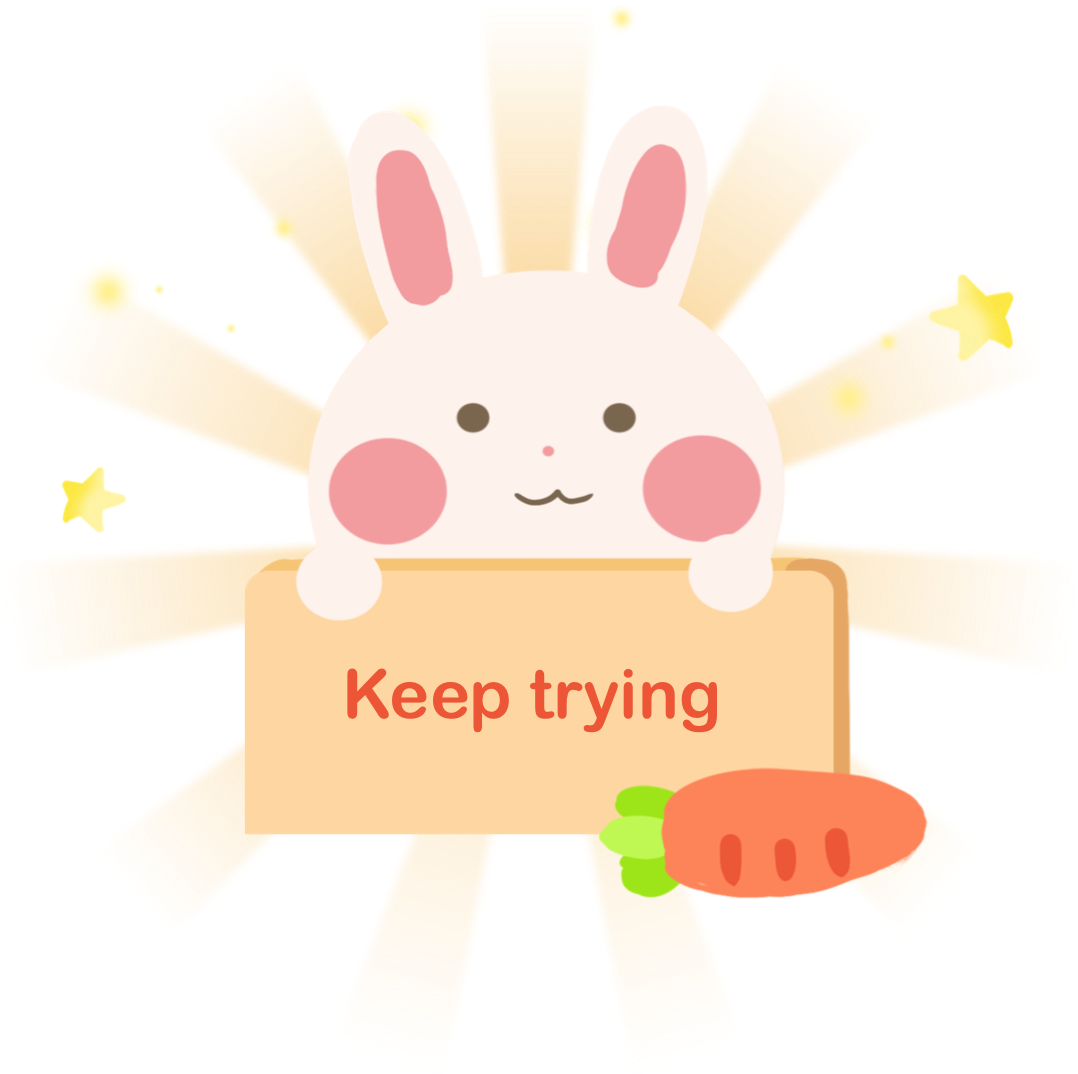
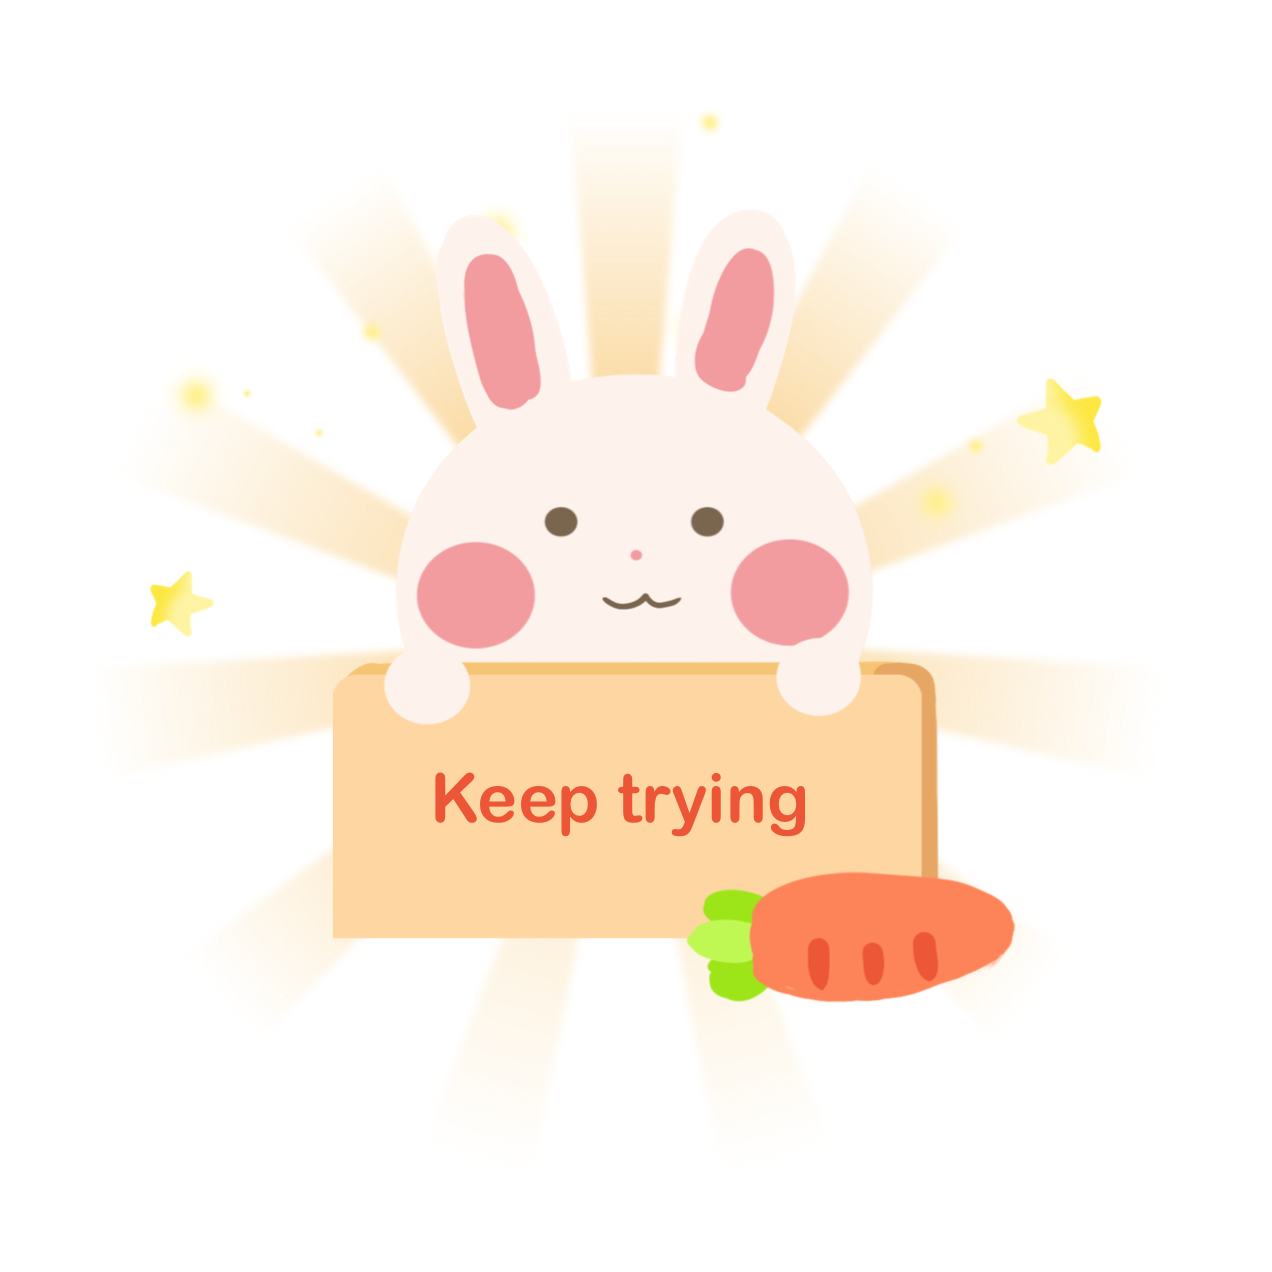
kid test

diff --git a/src/components/learn/kidCourse/common/guide3.vue b/src/components/learn/kidCourse/common/guide3.vue
@@ -1,20 +1,11 @@
 <template>
   <div class="guide-overlay" v-show="isShow" @click="close">
-    <div class="guide-content"
-      :style="{height: height + 'px', width: width + 'px', left: left + 'px', top: top + 'px'}"
-      v-html="content">
-    </div>
-    <div class="guide-helper" :style="{left: left + 'px', top: top + height + 20 + 'px'}">
-      <p>点击「任意单词」可查询发音解析</p>
-      <div class="smile"></div>
-    </div>
-    <div class="cursor" :style="{left: left + 20 + 'px', top: top - 70 + 'px'}"></div>
-    <div class="cursor-desc" :style="{left: left + 72 + 'px', top: top - 85 + 'px'}">智能评分颜色说明</div>
+    <div class="cursor" :style="{left: left - 2 + 'px', top: top + 50 + 'px'}"></div>
+    <div class="cursor-desc" :style="{left: left - 270 + 'px', top: top + 92 + 'px'}">点击这里查看会员评分详情</div>
   </div>
 </template>
 
 <script>
-import $ from 'jquery'
 import bus from '../../../../bus'
 export default {
   data () {
@@ -24,16 +15,16 @@ export default {
       top: 0,
       width: 0,
       height: 0,
-      content: ''
+      eleObj: null
     }
   },
   created () {
-    bus.$on('kidGuideShow', (ele) => {
+    bus.$on('kidGuideShow3', (ele) => {
+      this.eleObj = ele
       this.left = ele.offset().left - 10
       this.top = ele.offset().top - 5
       this.width = ele.width() + 20
       this.height = ele.height() + 10
-      this.content = ele.html()
       this.isShow = true
       console.log(ele)
       console.log(ele.html())
@@ -42,7 +33,6 @@ export default {
   methods: {
     close () {
       this.isShow = false
-      bus.$emit('kidGuideShow2', $('.swiper-slide-active .ise-area .user'))
     }
   }
 }
@@ -75,43 +65,11 @@ export default {
   transition: all .3s ease-out;
 }
 
-.guide-content {
-  position: absolute;
-  background: #fff;
-  border-radius: 8px;
-  font-size: 20px;
-  font-weight: 600;
-  padding-top: 5px;
-  padding-left: 10px;
-  color: #3C5B6F;
-}
-
-.guide-helper {
-  position: absolute;
-  width: 343px;
-  background: #fff;
-  border-radius: 8px;
-  padding: 14px;
-  p {
-    font-size: 16px;
-    font-weight: 400;
-    color: #000;
-  }
-  .smile {
-    margin-top: 14px;
-    width: 315px;
-    height: 90px;
-    background-image: url('../../../../../static/images/kid/icon-smile.png');
-    background-repeat: no-repeat;
-    background-size: cover;
-  }
-}
-
 .cursor {
   position: absolute;
   width: 45px;
   height: 60px;
-  background-image: url('../../../../../static/images/kid/hand-left-down.png');
+  background-image: url('../../../../../static/images/kid/hand-right-up.png');
   background-repeat: no-repeat;
   background-size: cover;
 }

diff --git a/src/components/learn/kidCourse/common/guide2.vue b/src/components/learn/kidCourse/common/guide2.vue
@@ -1,20 +1,11 @@
 <template>
-  <div class="guide-overlay" v-show="isShow" @click="close">
-    <div class="guide-content"
-      :style="{height: height + 'px', width: width + 'px', left: left + 'px', top: top + 'px'}"
-      v-html="content">
-    </div>
-    <div class="guide-helper" :style="{left: left + 'px', top: top + height + 20 + 'px'}">
-      <p>点击「任意单词」可查询发音解析</p>
-      <div class="smile"></div>
-    </div>
-    <div class="cursor" :style="{left: left + 20 + 'px', top: top - 70 + 'px'}"></div>
-    <div class="cursor-desc" :style="{left: left + 72 + 'px', top: top - 85 + 'px'}">智能评分颜色说明</div>
+  <div class="guide-overlay" v-show="isShow" @click="isShow = false">
+    <div class="cursor" :style="{left: left + 'px', top: top - 62 + 'px'}"></div>
+    <div class="cursor-desc" :style="{left: left - 230 + 'px', top: top - 77 + 'px'}">点击这里查看评分详情</div>
   </div>
 </template>
 
 <script>
-import $ from 'jquery'
 import bus from '../../../../bus'
 export default {
   data () {
@@ -28,7 +19,8 @@ export default {
     }
   },
   created () {
-    bus.$on('kidGuideShow', (ele) => {
+    bus.$on('kidGuideShow2', (ele) => {
+      localStorage.setItem('isShowKidGuide', '1')
       this.left = ele.offset().left - 10
       this.top = ele.offset().top - 5
       this.width = ele.width() + 20
@@ -38,12 +30,6 @@ export default {
       console.log(ele)
       console.log(ele.html())
     })
-  },
-  methods: {
-    close () {
-      this.isShow = false
-      bus.$emit('kidGuideShow2', $('.swiper-slide-active .ise-area .user'))
-    }
   }
 }
 </script>
@@ -75,43 +61,11 @@ export default {
   transition: all .3s ease-out;
 }
 
-.guide-content {
-  position: absolute;
-  background: #fff;
-  border-radius: 8px;
-  font-size: 20px;
-  font-weight: 600;
-  padding-top: 5px;
-  padding-left: 10px;
-  color: #3C5B6F;
-}
-
-.guide-helper {
-  position: absolute;
-  width: 343px;
-  background: #fff;
-  border-radius: 8px;
-  padding: 14px;
-  p {
-    font-size: 16px;
-    font-weight: 400;
-    color: #000;
-  }
-  .smile {
-    margin-top: 14px;
-    width: 315px;
-    height: 90px;
-    background-image: url('../../../../../static/images/kid/icon-smile.png');
-    background-repeat: no-repeat;
-    background-size: cover;
-  }
-}
-
 .cursor {
   position: absolute;
   width: 45px;
   height: 60px;
-  background-image: url('../../../../../static/images/kid/hand-left-down.png');
+  background-image: url('../../../../../static/images/kid/hand-right-down.png');
   background-repeat: no-repeat;
   background-size: cover;
 }

diff --git a/src/components/learn/kidCourse/common/swiper.vue b/src/components/learn/kidCourse/common/swiper.vue
@@ -481,13 +481,6 @@ export default {
               localStorage.setItem('xfISEResult', JSON.stringify(xfISEResult))
               this.getAvarageScore()
               this.$refs['scoreResult'].setScoreResult(formObj.score)
-              let isShowKidGuide = localStorage.getItem('isShowKidGuide')
-              if (isShowKidGuide !== '1' && this.isVip) {
-                setTimeout(() => {
-                  bus.$emit('kidGuideShow', $('.current-swiper .swiper-slide-active .content').find('p'))
-                  localStorage.setItem('isShowKidGuide', '1')
-                }, 3500)
-              }
               this.iseResultSet()
               this.$refs['ise'][this.curPage - 1].evaluateFinished()
               if (this.list.length === this.curPage) {
@@ -542,6 +535,12 @@ export default {
     // 录音保存后，动画效果
     recordAnimate () {
       this.$parent.$emit('recordAnimate')
+      setTimeout(() => {
+        let isShowKidGuide3 = localStorage.getItem('isShowKidGuide3')
+        if (isShowKidGuide3 !== '1' && this.curPage === this.totalPage) {
+          bus.$emit('kidGuideShow3', $('#score-report'))
+        }
+      }, 1500)
     },
     // 评测结果处理
     iseResultSet () {
@@ -579,7 +578,6 @@ export default {
         if (isShowKidGuide !== '1' && this.isVip) {
           setTimeout(() => {
             bus.$emit('kidGuideShow', $('.current-swiper .swiper-slide-active .content').find('p'))
-            localStorage.setItem('isShowKidGuide', '1')
           }, 3500)
         }
       }

diff --git a/src/components/learn/kidCourse/kidStage.vue b/src/components/learn/kidCourse/kidStage.vue
@@ -14,7 +14,9 @@
     <record-animate ref="recordAnimate"/>
     <word-panel ref="wordPanel"/>
     <test-yuyin v-show="false" :chapterCode="code"/>
-    <guide v-show="false"/>
+    <guide1 />
+    <guide2 />
+    <guide3 />
   </div>
 </template>
 
@@ -24,7 +26,9 @@ import NavComp from './common/nav.vue'
 import ProgressBar from './common/progress.vue'
 import SwiperComp from './common/swiper.vue'
 import WordPanel from './common/wordPanel.vue'
-import Guide from './common/guide.vue'
+import Guide1 from './common/guide.vue'
+import Guide2 from './common/guide2.vue'
+import Guide3 from './common/guide3.vue'
 import RecordAnimate from './common/recordAnimate.vue'
 import TestYuyin from './testYuyin.vue'
 
@@ -59,7 +63,9 @@ export default {
     SwiperComp,
     WordPanel,
     TestYuyin,
-    Guide,
+    Guide1,
+    Guide2,
+    Guide3,
     RecordAnimate
   },
   created () {

diff --git a/src/components/learn/kidCourse/common/iseArea.vue b/src/components/learn/kidCourse/common/iseArea.vue
@@ -60,6 +60,7 @@ export default {
       isPlaying: false,
       translateX: 116,
       timerInterval: null,
+      timeCount: 1,
       score: '',
       scoreClass: '',
       showCircle: ''
@@ -111,6 +112,14 @@ export default {
     recordOpt () {
       console.log(this.repeatRecord)
       if (this.repeatRecord && !this.isRecording) return
+      if (this.timeCount === 0) {
+        alert('录音时间太短！！！')
+        return
+      }
+      this.timeCount = 0
+      setTimeout(() => {
+        this.timeCount = 1
+      }, 1000)
       this.repeatRecord = true
       if (!this.isCanRecord) {
         this.$parent.$emit('showTip')
@@ -173,6 +182,7 @@ export default {
       }, 300)
     },
     reset () {
+      this.timeCount = 1
       this.repeatRecord = false
       this.isRecording = false
       this.isPlaying = false

diff --git a/src/components/learn/kidCourse/common/scoreResultBox.vue b/src/components/learn/kidCourse/common/scoreResultBox.vue
@@ -153,18 +153,18 @@ export default {
       background-image: url('../../../../../static/images/kid/pic-try-again.gif');
     }
     &.iatPerfect {
-      width: 537px;
-      height: 379px;
+      width: 424px;
+      height: 424px;
       background-image: url('../../../../../static/images/kid/pic-iat-perfect.png');
     }
     &.iatNice {
-      width: 539px;
-      height: 537px;
+      width: 424px;
+      height: 424px;
       background-image: url('../../../../../static/images/kid/pic-iat-nice.png');
     }
     &.iatKeepTrying {
-      width: 539px;
-      height: 537px;
+      width: 424px;
+      height: 424px;
       background-image: url('../../../../../static/images/kid/pic-iat-keep-trying.png');
     }
   }
